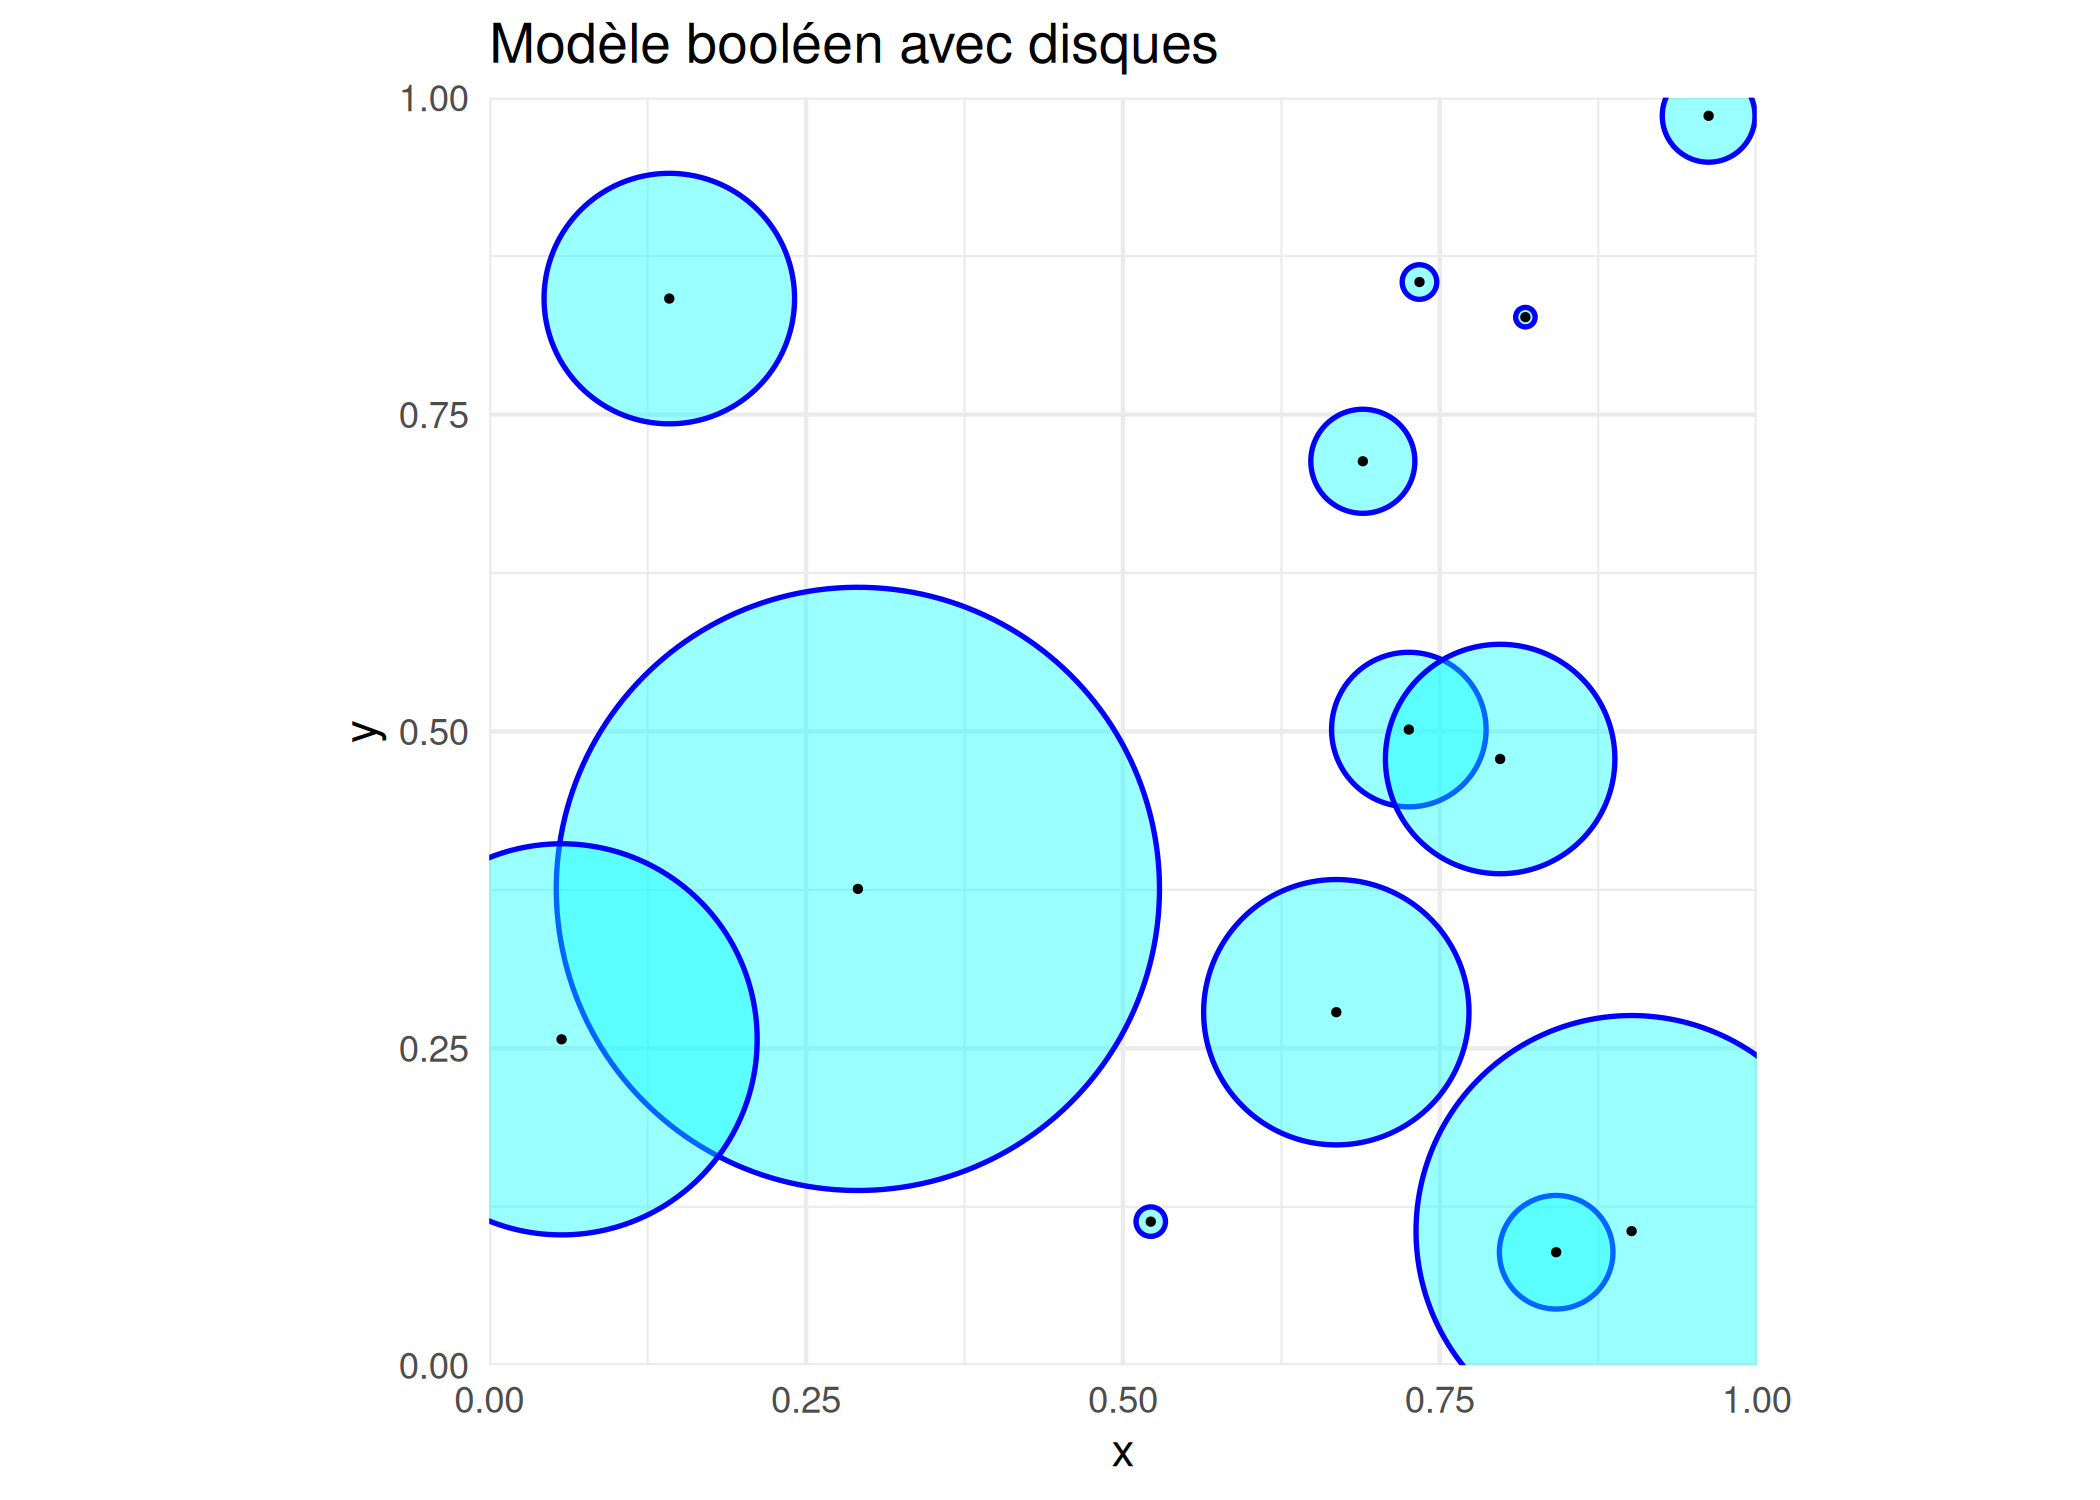
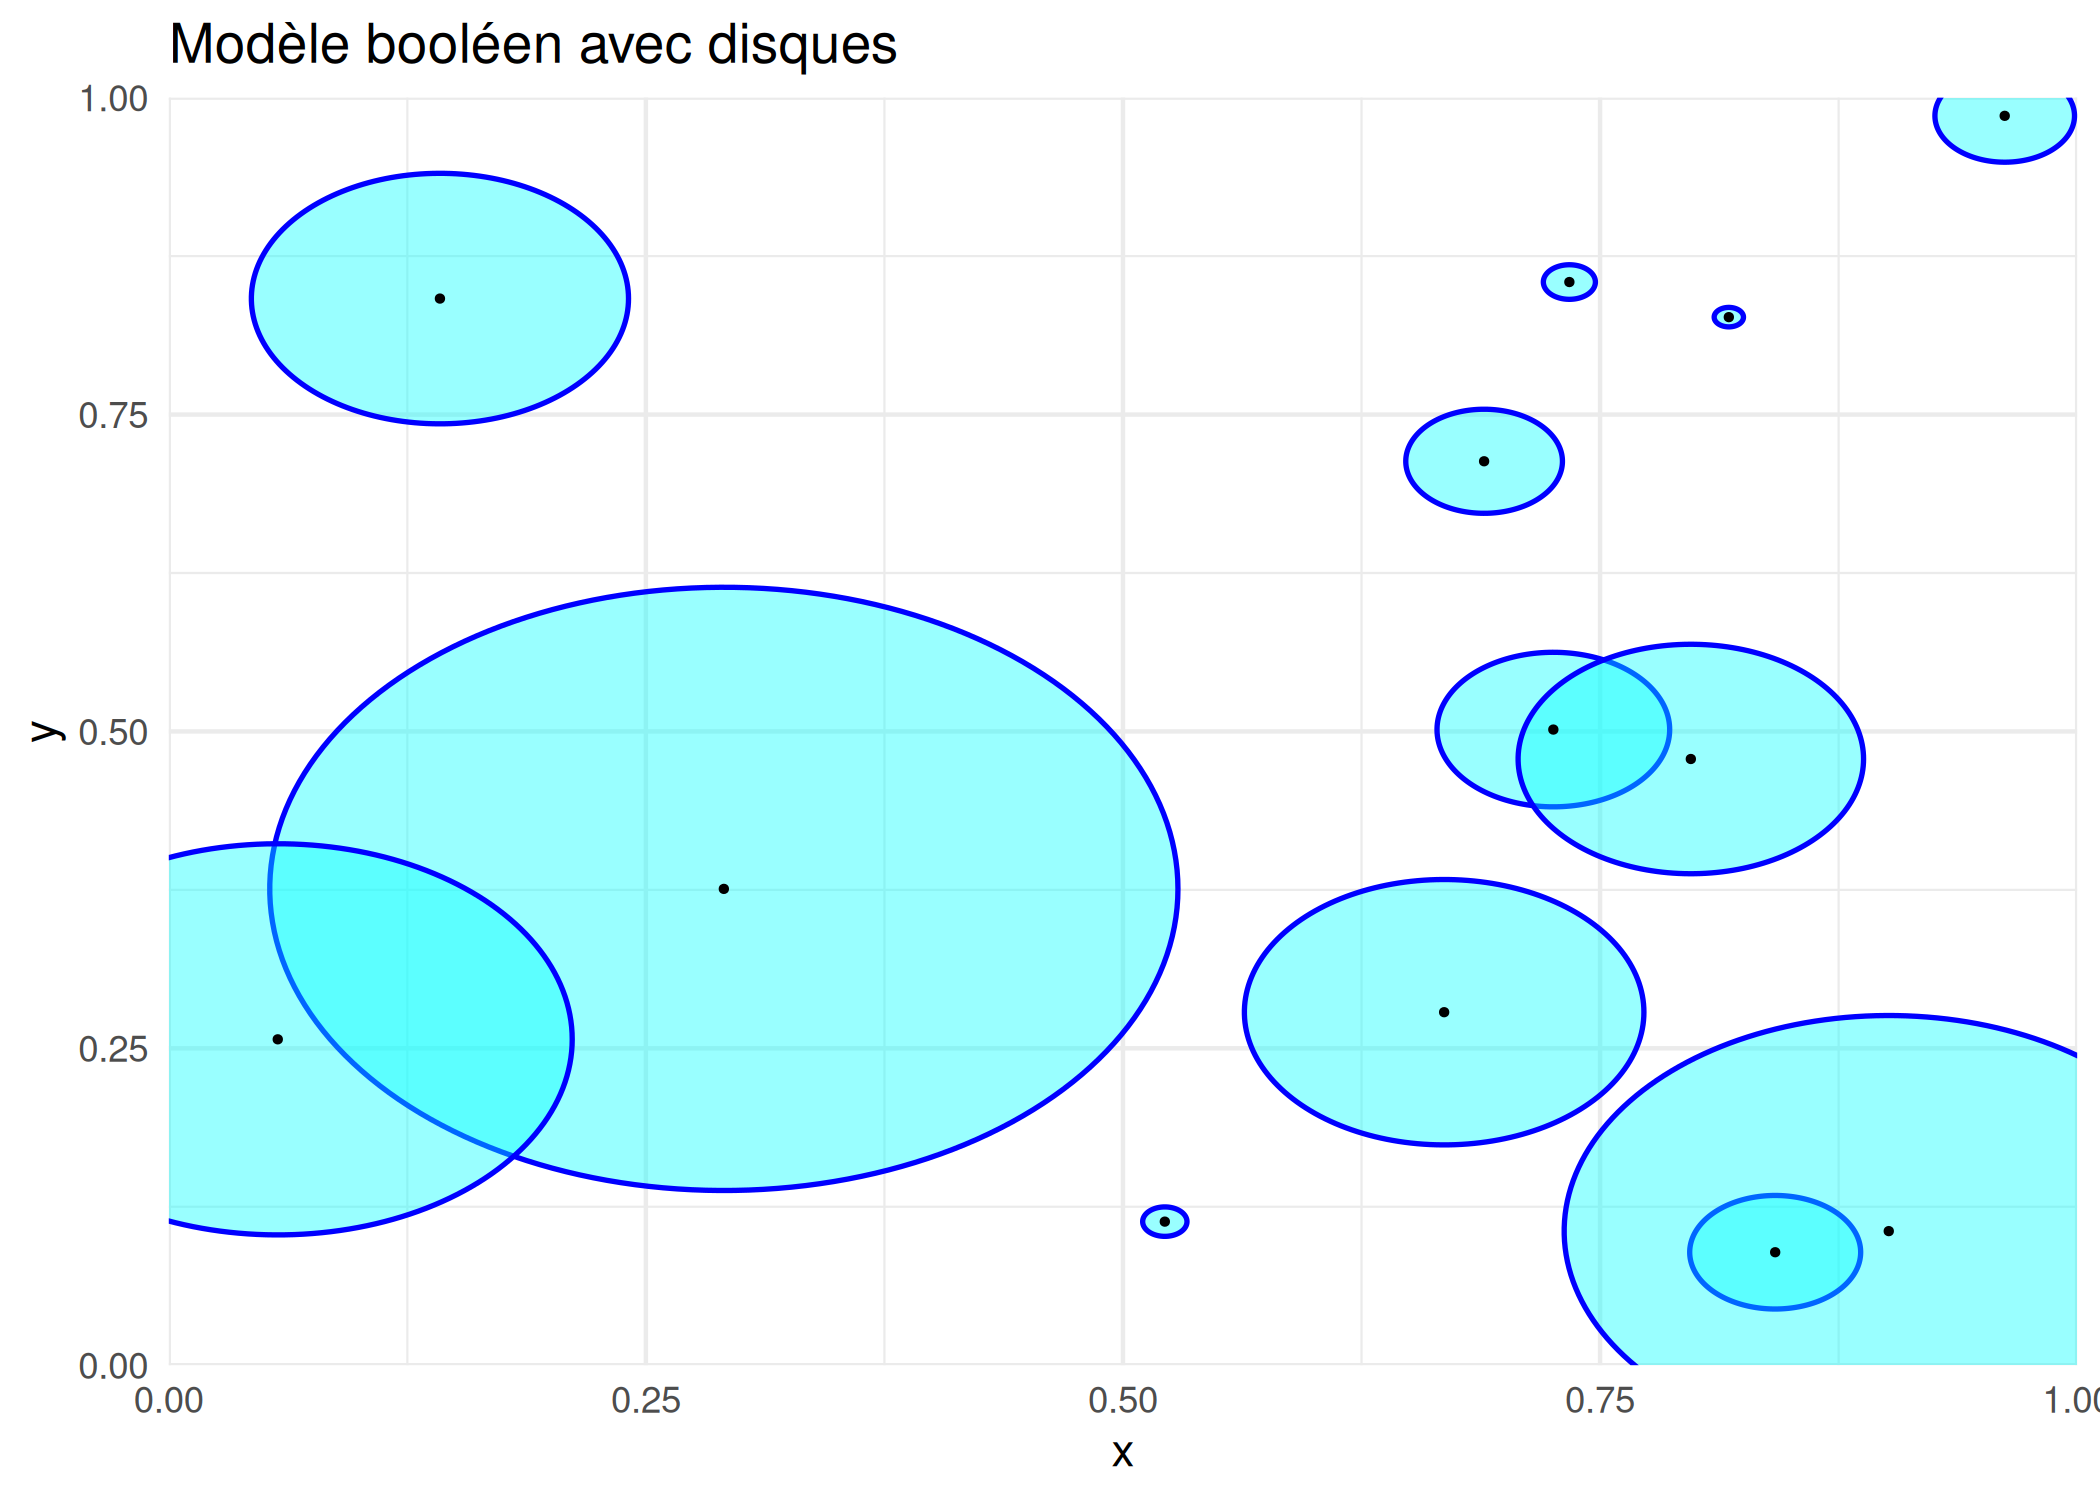
Built site for gh-pages

diff --git a/03-simulations.html b/03-simulations.html
@@ -532,7 +532,7 @@ window.Quarto = {
 <span id="cb1-55"><a href="#cb1-55" aria-hidden="true" tabindex="-1"></a>             <span class="fu">aes</span>(<span class="at">x =</span> x, <span class="at">y =</span> y), <span class="at">color =</span> <span class="st">"black"</span>, <span class="at">size =</span> <span class="fl">0.5</span>) <span class="sc">+</span></span>
 <span id="cb1-56"><a href="#cb1-56" aria-hidden="true" tabindex="-1"></a>  </span>
 <span id="cb1-57"><a href="#cb1-57" aria-hidden="true" tabindex="-1"></a>  <span class="co"># Contraintes d'affichage (Strictement limité entre 0 et 1 comme clip)</span></span>
-<span id="cb1-58"><a href="#cb1-58" aria-hidden="true" tabindex="-1"></a>  <span class="fu">coord_equal</span>(<span class="at">xlim =</span> <span class="fu">c</span>(borne_inferieure_axe_x, borne_superieure_axe_x),</span>
+<span id="cb1-58"><a href="#cb1-58" aria-hidden="true" tabindex="-1"></a>  <span class="fu">coord_cartesian</span>(<span class="at">xlim =</span> <span class="fu">c</span>(borne_inferieure_axe_x, borne_superieure_axe_x),</span>
 <span id="cb1-59"><a href="#cb1-59" aria-hidden="true" tabindex="-1"></a>              <span class="at">ylim =</span> <span class="fu">c</span>(borne_inferieure_axe_y, borne_superieure_axe_y),</span>
 <span id="cb1-60"><a href="#cb1-60" aria-hidden="true" tabindex="-1"></a>              <span class="at">expand =</span> <span class="cn">FALSE</span>) <span class="sc">+</span></span>
 <span id="cb1-61"><a href="#cb1-61" aria-hidden="true" tabindex="-1"></a>  </span>
@@ -657,7 +657,7 @@ window.Quarto = {
 <span id="cb2-101"><a href="#cb2-101" aria-hidden="true" tabindex="-1"></a>             <span class="at">color =</span> <span class="st">"forestgreen"</span>, <span class="at">size =</span> <span class="fl">0.6</span>) <span class="sc">+</span></span>
 <span id="cb2-102"><a href="#cb2-102" aria-hidden="true" tabindex="-1"></a>  </span>
 <span id="cb2-103"><a href="#cb2-103" aria-hidden="true" tabindex="-1"></a>  <span class="co"># Rognage strict de la fenêtre d'observation finale [0,1]</span></span>
-<span id="cb2-104"><a href="#cb2-104" aria-hidden="true" tabindex="-1"></a>  <span class="fu">coord_equal</span>(<span class="at">xlim =</span> <span class="fu">c</span>(borne_inferieure_axe_x, borne_superieure_axe_x),</span>
+<span id="cb2-104"><a href="#cb2-104" aria-hidden="true" tabindex="-1"></a>  <span class="fu">coord_cartesian</span>(<span class="at">xlim =</span> <span class="fu">c</span>(borne_inferieure_axe_x, borne_superieure_axe_x),</span>
 <span id="cb2-105"><a href="#cb2-105" aria-hidden="true" tabindex="-1"></a>              <span class="at">ylim =</span> <span class="fu">c</span>(borne_inferieure_axe_y, borne_superieure_axe_y),</span>
 <span id="cb2-106"><a href="#cb2-106" aria-hidden="true" tabindex="-1"></a>              <span class="at">expand =</span> <span class="cn">FALSE</span>) <span class="sc">+</span></span>
 <span id="cb2-107"><a href="#cb2-107" aria-hidden="true" tabindex="-1"></a>  </span>
@@ -797,7 +797,7 @@ window.Quarto = {
 <span id="cb3-115"><a href="#cb3-115" aria-hidden="true" tabindex="-1"></a>             <span class="fu">aes</span>(<span class="at">x =</span> x, <span class="at">y =</span> y), <span class="at">color =</span> <span class="st">"red"</span>, <span class="at">size =</span> <span class="fl">1.2</span>) <span class="sc">+</span></span>
 <span id="cb3-116"><a href="#cb3-116" aria-hidden="true" tabindex="-1"></a>  </span>
 <span id="cb3-117"><a href="#cb3-117" aria-hidden="true" tabindex="-1"></a>  <span class="co"># Contraintes d'affichage (Strictement limité à la fenêtre d'observation)</span></span>
-<span id="cb3-118"><a href="#cb3-118" aria-hidden="true" tabindex="-1"></a>  <span class="fu">coord_equal</span>(<span class="at">xlim =</span> <span class="fu">c</span>(borne_inferieure_x, borne_superieure_x),</span>
+<span id="cb3-118"><a href="#cb3-118" aria-hidden="true" tabindex="-1"></a>  <span class="fu">coord_cartesian</span>(<span class="at">xlim =</span> <span class="fu">c</span>(borne_inferieure_x, borne_superieure_x),</span>
 <span id="cb3-119"><a href="#cb3-119" aria-hidden="true" tabindex="-1"></a>              <span class="at">ylim =</span> <span class="fu">c</span>(borne_inferieure_y, borne_superieure_y),</span>
 <span id="cb3-120"><a href="#cb3-120" aria-hidden="true" tabindex="-1"></a>              <span class="at">expand =</span> <span class="cn">FALSE</span>) <span class="sc">+</span></span>
 <span id="cb3-121"><a href="#cb3-121" aria-hidden="true" tabindex="-1"></a>  </span>
@@ -1047,7 +1047,7 @@ library(ggplot2)
 <span id="cb15-55"><a href="#cb15-55" aria-hidden="true" tabindex="-1"></a>             <span class="fu">aes</span>(<span class="at">x =</span> x, <span class="at">y =</span> y), <span class="at">color =</span> <span class="st">"black"</span>, <span class="at">size =</span> <span class="fl">0.5</span>) <span class="sc">+</span></span>
 <span id="cb15-56"><a href="#cb15-56" aria-hidden="true" tabindex="-1"></a>  </span>
 <span id="cb15-57"><a href="#cb15-57" aria-hidden="true" tabindex="-1"></a>  <span class="co"># Contraintes d'affichage (Strictement limité entre 0 et 1 comme clip)</span></span>
-<span id="cb15-58"><a href="#cb15-58" aria-hidden="true" tabindex="-1"></a>  <span class="fu">coord_equal</span>(<span class="at">xlim =</span> <span class="fu">c</span>(borne_inferieure_axe_x, borne_superieure_axe_x),</span>
+<span id="cb15-58"><a href="#cb15-58" aria-hidden="true" tabindex="-1"></a>  <span class="fu">coord_cartesian</span>(<span class="at">xlim =</span> <span class="fu">c</span>(borne_inferieure_axe_x, borne_superieure_axe_x),</span>
 <span id="cb15-59"><a href="#cb15-59" aria-hidden="true" tabindex="-1"></a>              <span class="at">ylim =</span> <span class="fu">c</span>(borne_inferieure_axe_y, borne_superieure_axe_y),</span>
 <span id="cb15-60"><a href="#cb15-60" aria-hidden="true" tabindex="-1"></a>              <span class="at">expand =</span> <span class="cn">FALSE</span>) <span class="sc">+</span></span>
 <span id="cb15-61"><a href="#cb15-61" aria-hidden="true" tabindex="-1"></a>  </span>
@@ -1161,7 +1161,7 @@ library(ggplot2)
 <span id="cb16-101"><a href="#cb16-101" aria-hidden="true" tabindex="-1"></a>             <span class="at">color =</span> <span class="st">"forestgreen"</span>, <span class="at">size =</span> <span class="fl">0.6</span>) <span class="sc">+</span></span>
 <span id="cb16-102"><a href="#cb16-102" aria-hidden="true" tabindex="-1"></a>  </span>
 <span id="cb16-103"><a href="#cb16-103" aria-hidden="true" tabindex="-1"></a>  <span class="co"># Rognage strict de la fenêtre d'observation finale [0,1]</span></span>
-<span id="cb16-104"><a href="#cb16-104" aria-hidden="true" tabindex="-1"></a>  <span class="fu">coord_equal</span>(<span class="at">xlim =</span> <span class="fu">c</span>(borne_inferieure_axe_x, borne_superieure_axe_x),</span>
+<span id="cb16-104"><a href="#cb16-104" aria-hidden="true" tabindex="-1"></a>  <span class="fu">coord_cartesian</span>(<span class="at">xlim =</span> <span class="fu">c</span>(borne_inferieure_axe_x, borne_superieure_axe_x),</span>
 <span id="cb16-105"><a href="#cb16-105" aria-hidden="true" tabindex="-1"></a>              <span class="at">ylim =</span> <span class="fu">c</span>(borne_inferieure_axe_y, borne_superieure_axe_y),</span>
 <span id="cb16-106"><a href="#cb16-106" aria-hidden="true" tabindex="-1"></a>              <span class="at">expand =</span> <span class="cn">FALSE</span>) <span class="sc">+</span></span>
 <span id="cb16-107"><a href="#cb16-107" aria-hidden="true" tabindex="-1"></a>  </span>
@@ -1291,7 +1291,7 @@ library(ggplot2)
 <span id="cb17-115"><a href="#cb17-115" aria-hidden="true" tabindex="-1"></a>             <span class="fu">aes</span>(<span class="at">x =</span> x, <span class="at">y =</span> y), <span class="at">color =</span> <span class="st">"red"</span>, <span class="at">size =</span> <span class="fl">1.2</span>) <span class="sc">+</span></span>
 <span id="cb17-116"><a href="#cb17-116" aria-hidden="true" tabindex="-1"></a>  </span>
 <span id="cb17-117"><a href="#cb17-117" aria-hidden="true" tabindex="-1"></a>  <span class="co"># Contraintes d'affichage (Strictement limité à la fenêtre d'observation)</span></span>
-<span id="cb17-118"><a href="#cb17-118" aria-hidden="true" tabindex="-1"></a>  <span class="fu">coord_equal</span>(<span class="at">xlim =</span> <span class="fu">c</span>(borne_inferieure_x, borne_superieure_x),</span>
+<span id="cb17-118"><a href="#cb17-118" aria-hidden="true" tabindex="-1"></a>  <span class="fu">coord_cartesian</span>(<span class="at">xlim =</span> <span class="fu">c</span>(borne_inferieure_x, borne_superieure_x),</span>
 <span id="cb17-119"><a href="#cb17-119" aria-hidden="true" tabindex="-1"></a>              <span class="at">ylim =</span> <span class="fu">c</span>(borne_inferieure_y, borne_superieure_y),</span>
 <span id="cb17-120"><a href="#cb17-120" aria-hidden="true" tabindex="-1"></a>              <span class="at">expand =</span> <span class="cn">FALSE</span>) <span class="sc">+</span></span>
 <span id="cb17-121"><a href="#cb17-121" aria-hidden="true" tabindex="-1"></a>  </span>
